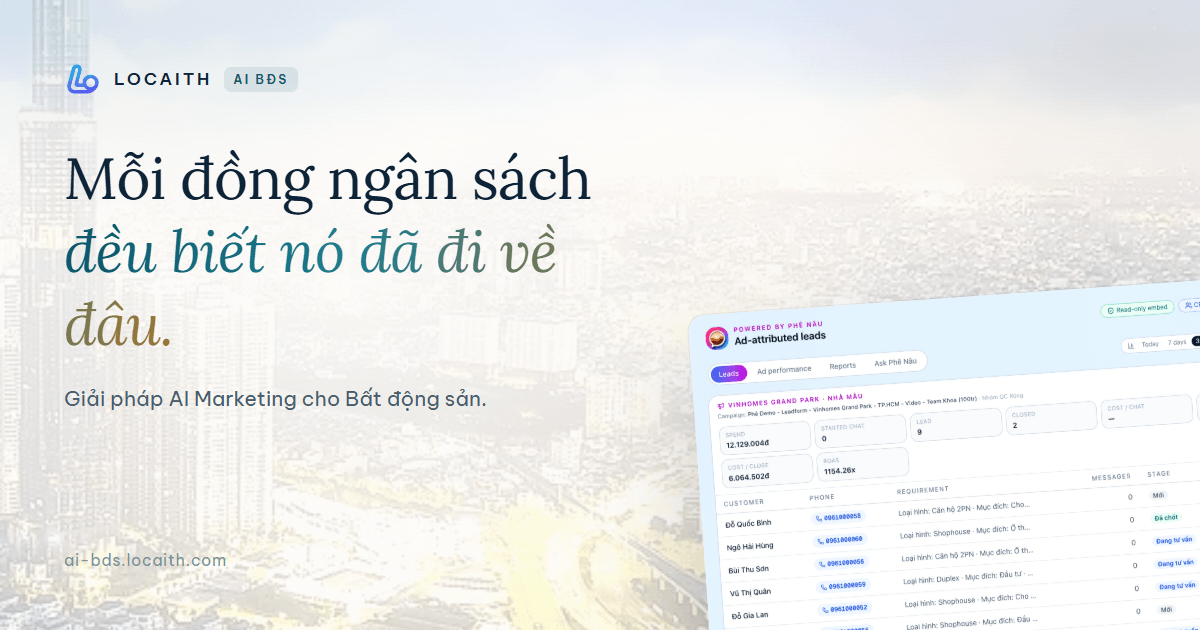
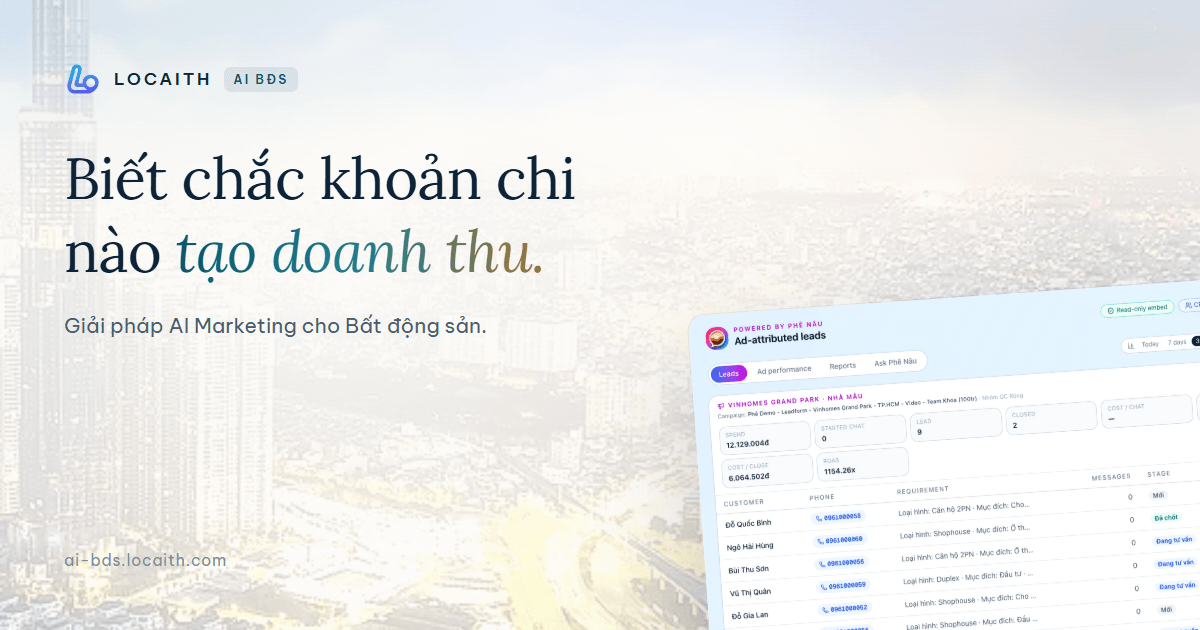
copy: đổi câu mở đầu sang "Biết chắc khoản chi nào tạo doanh thu"
Câu cũ lấy đồng ngân sách làm chủ ngữ rồi cho nó tự biết mình đi đâu — nghe
gượng và chỉ nói tiền chảy đi chứ không nói mang về được gì. Câu mới đặt trọng
tâm vào khoản chi nào ra doanh thu, đúng thứ hệ thống trả lời được.

Dòng giới thiệu viết lại theo phạm vi thật của giải pháp: gom và nối dữ liệu
quảng cáo, khách hàng, bán hàng, nội dung vào một hệ thống riêng cho từng doanh
nghiệp. Mô tả trang cho công cụ tìm kiếm, thẻ chia sẻ mạng xã hội và ảnh chia sẻ
đều cập nhật theo.

diff --git a/src/App.tsx b/src/App.tsx
@@ -74,13 +74,13 @@ const capabilities = [
  * tính lại liên tục và chữ sẽ nhấp nháy không ngừng.
  */
 const HERO_EYEBROW: Segment[] = [{ text: siteConfig.productTagline }]
-const HERO_LINE_1: Segment[] = [{ text: 'Mỗi đồng ngân sách' }]
-const HERO_LINE_2: Segment[] = [{ text: 'đều biết nó đã đi về đâu.', mode: 'rise', gradient: true }]
+const HERO_LINE_1: Segment[] = [{ text: 'Biết chắc khoản chi nào' }]
+const HERO_LINE_2: Segment[] = [{ text: 'tạo doanh thu.', mode: 'rise', gradient: true }]
 const HERO_LEAD: Segment[] = [
-  { text: 'Locaith nối quảng cáo với dữ liệu khách hàng, chiến dịch và báo cáo — để chủ đầu tư và sàn phân phối' },
-  { text: 'nhìn thấy hiệu quả thật', mode: 'rise', className: 'lead-em' },
-  { text: 'và ra quyết định' },
-  { text: 'ngay trên số liệu.', mode: 'rise', className: 'lead-em' },
+  { text: 'Locaith gom và nối dữ liệu quảng cáo, khách hàng, bán hàng và nội dung vào một hệ thống' },
+  { text: 'được thiết kế riêng cho từng doanh nghiệp,', mode: 'rise', className: 'lead-em' },
+  { text: 'giúp theo dõi hiệu quả, làm báo cáo nhanh và' },
+  { text: 'ra quyết định bằng AI.', mode: 'rise', className: 'lead-em' },
 ]
 
 /** Một vòng chữ mở đầu: chạy hết khoảng 6 giây rồi đứng yên gần 7 giây cho người đọc. */

diff --git a/index.html b/index.html
@@ -11,7 +11,7 @@
     <title>Locaith · Giải pháp AI Marketing cho Bất động sản</title>
     <meta
       name="description"
-      content="Locaith nối quảng cáo với dữ liệu khách hàng, chiến dịch và báo cáo cho doanh nghiệp bất động sản: đo hiệu quả quảng cáo, tạo chiến dịch, video AI, báo cáo tự động và hỏi đáp dữ liệu bằng tiếng Việt."
+      content="Locaith gom và nối dữ liệu quảng cáo, khách hàng, bán hàng và nội dung của doanh nghiệp bất động sản vào một hệ thống riêng: theo dõi hiệu quả, làm báo cáo nhanh và ra quyết định bằng AI."
     />
     <link rel="canonical" href="https://ai-bds.locaith.com" />
 
@@ -21,7 +21,7 @@
     <meta property="og:title" content="Locaith · Giải pháp AI Marketing cho Bất động sản" />
     <meta
       property="og:description"
-      content="Từ dữ liệu quảng cáo rời rạc thành chiến dịch, báo cáo và quyết định trên một nền tảng."
+      content="Biết chắc khoản chi nào tạo doanh thu — dữ liệu quảng cáo, khách hàng và bán hàng trên cùng một hệ thống."
     />
     <meta property="og:url" content="https://ai-bds.locaith.com" />
     <meta property="og:image" content="https://ai-bds.locaith.com/og-image.png" />
